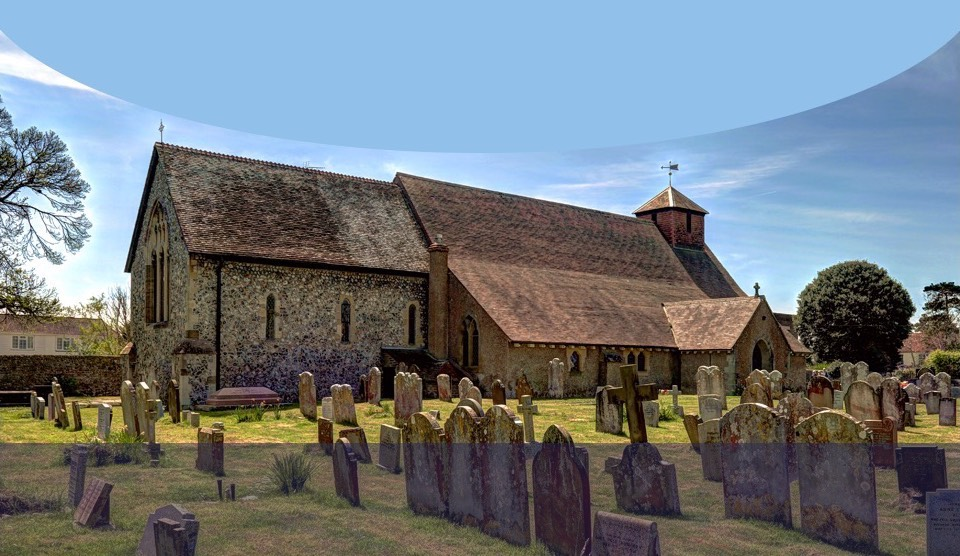
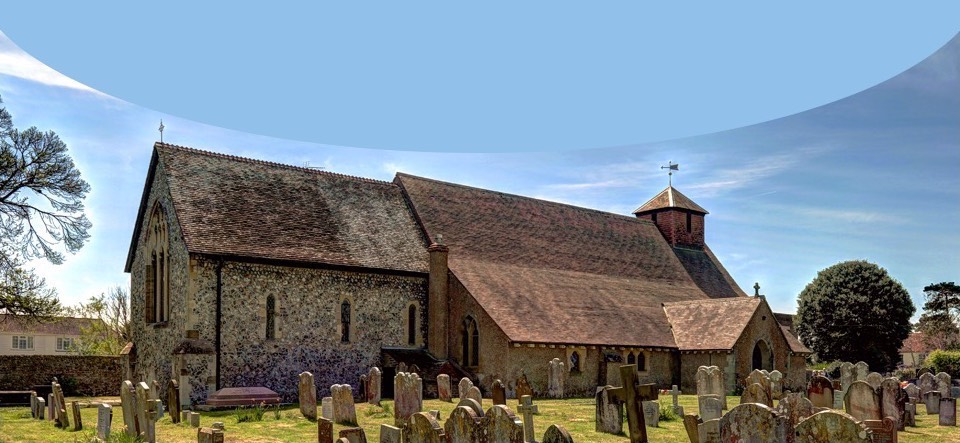
Navigation fixing progress
Working around issues to get it centred and nicely laid out on all
breakpoints, almost done

diff --git a/css/style.css b/css/style.css
@@ -40,16 +40,23 @@ elements */
 #nav {                                                    /* navigation links at top of each page */
   color: #fff;
   font-size: 1.75rem;
-  position: absolute;                                     /* positions inside the relative header to align with
-                                                          bottom of box */
-  bottom: 0;
+  text-align: center;
+  width: 100%;                                            /* helps with centring navigation */
 }
 #nav ul {
   margin: 0;                                              /* removes margin so aligns with bottom of box better */
 }
 #nav ul li {
-  display: inline-block;                                  /* wraps with viewport size */
-  margin-left: 20px;
+  display: block;                                         /* vertical list on mobile, changed to horizontal below */
+}
+#nav ul li:last-child {
+  margin-right: 0;                                        /* prevents margin from throwing off last list item */
+}
+#nav .centre {
+  display: inline-block;                                  /* somehow causes nav to centre */
+  *display: inline;                                       /* IE7 */
+  *zoom: 1;
+  width: 80%;
 }
 
 #sidebar {
@@ -65,6 +72,13 @@ elements */
   #header {                                               /* resize header for smaller than tablet */
     background: url(../images/header-550.jpg) no-repeat center;
     height: 255px;
+  }
+  #nav ul li {
+    display: inline-block;                                /* wraps with viewport size */
+    margin-right: 20px;                                   /* spacing for list items when horizontal */
+    text-align:left;
+    *display:inline;/* IE7 */
+    *zoom:1;
   }
   #sidebar {
     min-height: 500px;                                    /* assures it's always the same min height as content,
@@ -86,12 +100,26 @@ elements */
 @media (min-width: 750px) {
   #header {                                               /* resize header for tablet */
     background: url(../images/header-750.jpg) no-repeat center;
-    height: 348px;
+    height: 277px;
+  }
+  #nav {
+    background: url(../images/nav-750.jpg) no-repeat center;
+    height: 71px;
+  }
+  #nav ul {
+    margin-top: 0px;
   }
 }
 @media (min-width: 1000px) {
   #header {                                               /* resize header for desktop */
     background: url(../images/header-1000.jpg);
-    height: 556px;
+    height: 443px;
+  }
+  #nav {
+    background: url(../images/nav-1000.jpg);
+    height: 113px;
+  }
+  #nav ul {
+    margin-top: 60px;
   }
 }

diff --git a/index.html b/index.html
@@ -36,16 +36,16 @@
     <div class="row"><!--New row-->
       <!--Header begin--><div class="twelve columns" id="header">
         <h1 id="header-title">St. Andrew's Church</h1>
-
-        <div id="nav"><!--Navigation begin--> <!--Embedded in header so image flows
-          behind it-->
-          <div id="navbox">
-            <ul>
-              <li>Home</li><li>Page</li><li>Longerpage</li><li>Anotherpage</li><li>Pagetacularised</li>
-            </ul>
-          </div>
-        </div><!--Navigation ends-->
       </div><!--Header ends-->
+    </div><!--Row ends-->
+    <div id="row"><!--Row begins-->
+      <div id="nav"><!--Navigation begin-->
+        <div class="centre"><!-- Centre class begin-->
+          <ul>
+            <li>Home</li><li>Page</li><li>Longerpage</li><li>Anotherpage</li><li>Pagetacularised</li>
+          </ul>
+        </div><!--Centre class end-->
+      </div><!--Navigation ends-->
     </div><!--Row ends-->
     <div class="row"><!--New row-->
       <!--Side navigation begin--><div class="four columns" id="sidebar">
